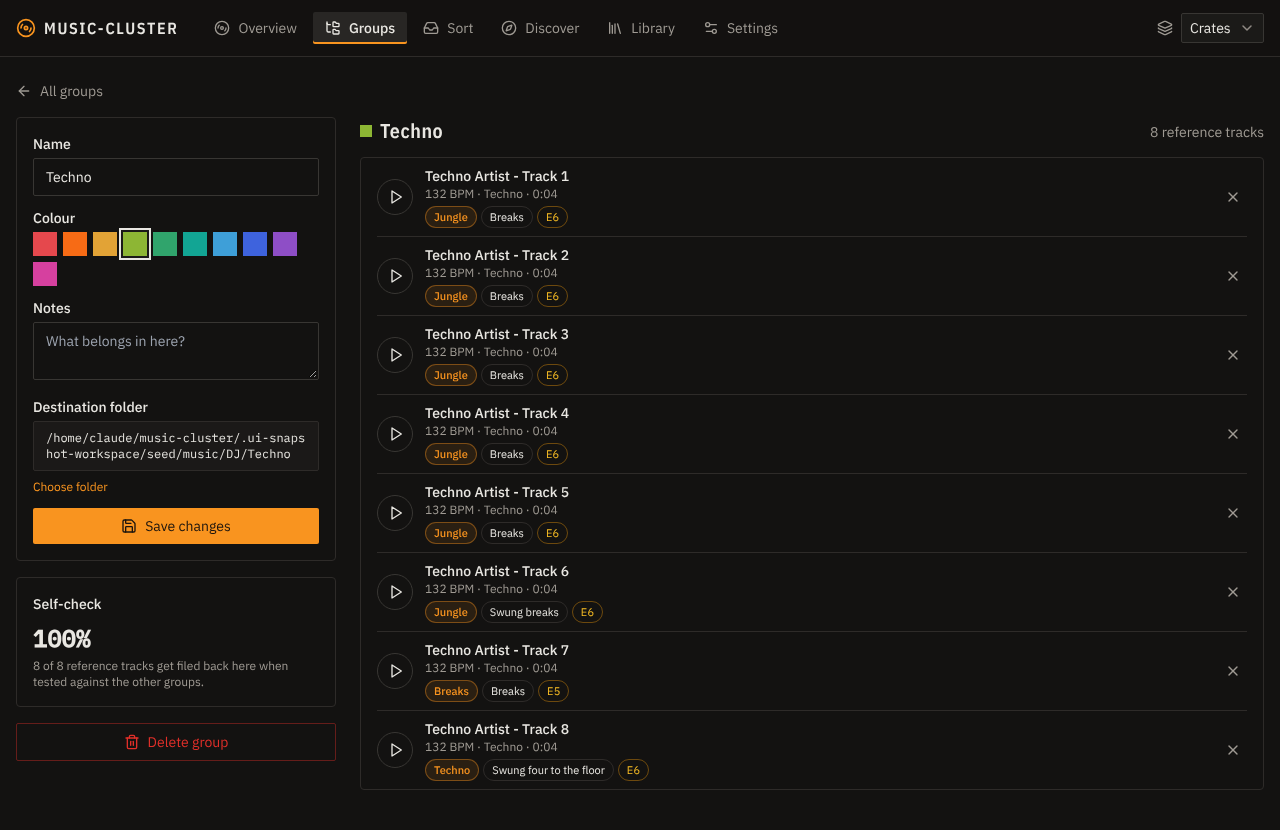
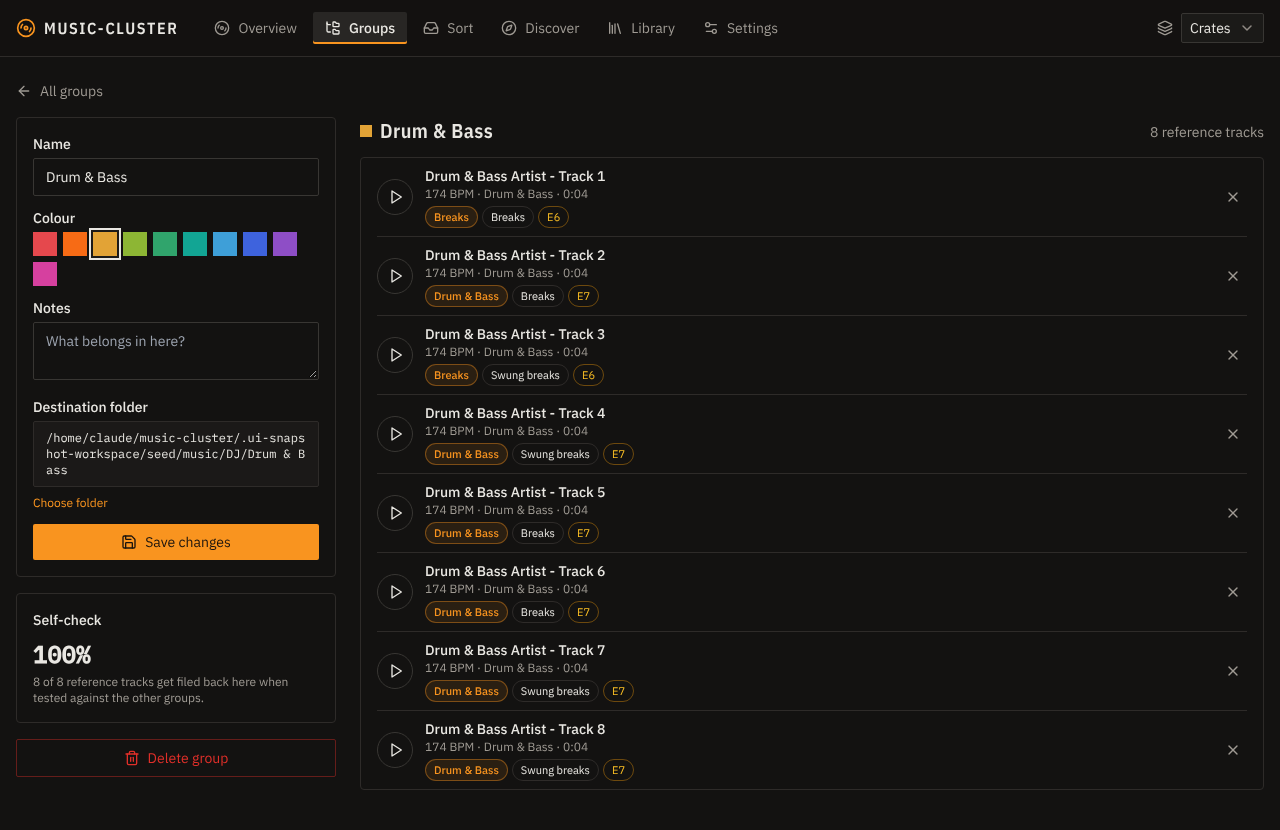
Address review: cleaner README images and retake steps
- The dark-theme README image shows the Drum & Bass group, whose seeded tracks
  are tagged as such (the synthetic Techno tracks tag as Jungle/Breaks).
- The sort-review shot dismisses its toasts so they don't cover the queue.
- README caption is its own paragraph; retake steps say where each command runs.

Claude-Session: https://claude.ai/code/session_017p4eSF2MEFmXZTfaieG7Q1

diff --git a/ui/snapshots/screens.spec.ts b/ui/snapshots/screens.spec.ts
@@ -111,10 +111,10 @@ test.describe('browsing', () => {
     await shot('dark-library', { note: 'Library and its tag chips in the dark theme' });
     await page.goto('/groups');
     await page
-      .getByRole('link', { name: /Techno/ })
+      .getByRole('link', { name: /Drum & Bass/ })
       .first()
       .click();
-    await expect(page.getByText('Techno Artist').first()).toBeVisible();
+    await expect(page.getByText('Drum & Bass Artist').first()).toBeVisible();
     await shot('dark-group-detail', { note: 'A group, its crate colour and tracks, dark theme' });
   });
 });
@@ -136,6 +136,10 @@ test.describe('sorting new music', () => {
     await expect(page).toHaveURL(/\/sort\/\d+$/, { timeout: 120_000 });
     await expect(page.getByText('6 to review')).toBeVisible();
     await expect(page.locator('canvas').first()).toBeVisible({ timeout: 30_000 });
+    // The "Ready to review" toast would cover the queue in the docs' main image.
+    for (const dismiss of await page.getByRole('button', { name: 'Dismiss' }).all()) {
+      await dismiss.click();
+    }
     await shot('sort-review', {
       note: 'Review queue: six tracks, each with its suggested group and a waveform'
     });

diff --git a/README.md b/README.md
@@ -26,6 +26,7 @@ screen by screen. Every command and option is in the
 ## What it looks like
 
 ![Reviewing a new track: the suggested groups with their scores, the waveform and the queue](docs/images/sort-review.png)
+
 _Sorting new buys: every track gets its likely groups and a score, and you
 decide where it goes._
 
@@ -34,9 +35,9 @@ decide where it goes._
 | ![The groups in a collection, each with its colour](docs/images/groups.png) | ![A group's colour, notes, destination and reference tracks](docs/images/dark-group-detail.png) |
 
 The app follows your system's light or dark setting (Settings › Appearance
-overrides it). These screenshots are retaken with `npm run ui:snapshot` and
-`python scripts/update_doc_screenshots.py`; the [tutorial](docs/tutorial.md)
-has one for every step.
+overrides it). To retake these screenshots, run `npm run ui:snapshot` in `ui/`,
+then `python scripts/update_doc_screenshots.py` from the repository root; the
+[tutorial](docs/tutorial.md) has one for every step.
 
 ## The two workflows
 
